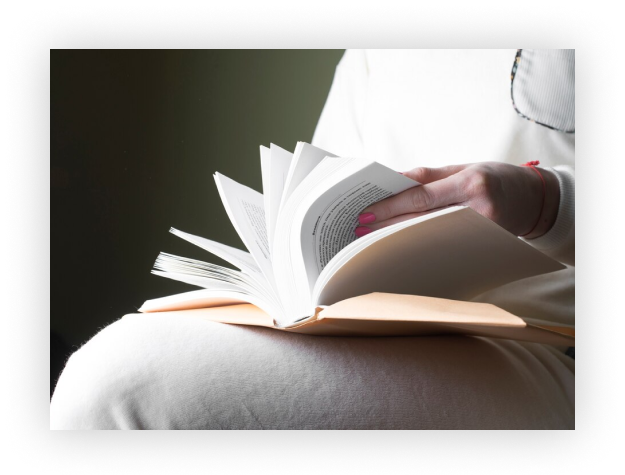
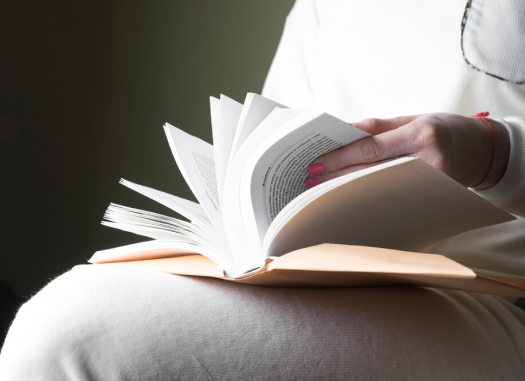
update event & image in about

diff --git a/wp-content/themes/kabarmedia/views/our-titles.php b/wp-content/themes/kabarmedia/views/our-titles.php
@@ -27,6 +27,17 @@ $getBooks = getBooks()['books'];
 .carousel-item {
     width: 100%;
 }
+.btn.main-button{
+    padding: 12px 50px;
+}
+.row{
+}
+.carousel-caption{
+    left: 10%;
+    position: absolute;
+  top: 50%;
+  transform: translateY(-50%);
+}
     @media (min-width: 768px) and (max-width: 992px){
         .buku, .buku-banda{
              padding-top:27%;
@@ -51,7 +62,6 @@ $getBooks = getBooks()['books'];
         .buku-banda{
          padding-top:21%   
         }
-		
     }
 </style>
 
@@ -179,9 +189,9 @@ $getBooks = getBooks()['books'];
                                 Ubud Writers & Readers Festival 2024
                             </h2>
                             <p class="description fw-normal mb-5 pe-md-5 text-white">
-                                From literary lunch to remember to intimate cocktail feasts
-                                with Festival headliners &#8211; there
-                                is plenty to devour in Ubud&apos;s in-places at one of our Special Events.
+                                From literary lunch to remember to intimate<br>
+                                cocktail feasts with Festival headliners &#8211; there is <br>
+                                plenty to devour in Ubud&apos;s in-places at one of our <br> Special Events.
                             </p>
                             <a href="https://www.ubudwritersfestival.com/" type="button" class="btn main-button">
                                 Learn More
@@ -210,7 +220,7 @@ $getBooks = getBooks()['books'];
             <div class="carousel-item active">
                 <div class="row align-items-center">
                     <div class="col-md-6 px-4 order-2 md-order-1">
-                        <p class="sub-title text-uppercase fw-bold mb-2">Events</p>
+                        <p class="sub-title text-uppercase fw-bold mb-2 mt-4">Events</p>
                         <h2 class="main-title mb-lg-4">
                             Indie Book Day 2024
                         </h2>
@@ -236,7 +246,7 @@ $getBooks = getBooks()['books'];
             <div class="carousel-item">
                 <div class="row align-items-center">
                     <div class="col-md-6 px-4 order-2 md-order-1">
-                        <p class="sub-title text-uppercase fw-bold mb-2">Events</p>
+                        <p class="sub-title text-uppercase fw-bold mb-2 mt-4">Events</p>
                         <h2 class="main-title mb-lg-4">
                             Meet the Author at Periplus Artasedana Sanur
                         </h2>
@@ -259,7 +269,7 @@ $getBooks = getBooks()['books'];
             <div class="carousel-item">
                 <div class="row align-items-center">
                     <div class="col-md-6 px-4 order-2 md-order-1">
-                        <p class="sub-title text-uppercase fw-bold mb-2">Events</p>
+                        <p class="sub-title text-uppercase fw-bold mb-2 mt-4">Events</p>
                         <h2 class="main-title mb-lg-4">
                             Ubud Writers & Readers Festival
                         </h2>
@@ -275,7 +285,7 @@ $getBooks = getBooks()['books'];
                         <picture>
                             <source media="(min-width:900px)" srcset="<?php echo esc_url(get_template_directory_uri()); ?>/assets/images/event-background-desktop.png">
                             <source media="(min-width:768px)" srcset="<?php echo esc_url(get_template_directory_uri()); ?>/assets/images/event-background-tablet.png">
-                            <img src="<?php echo esc_url(get_template_directory_uri()); ?>/assets/images/event-ubud.png" alt="all-book" class="w-100">
+                            <img src="<?php echo esc_url(get_template_directory_uri()); ?>/assets/images/event-ubud-mobile.png" alt="all-book" class="w-100">
                         </picture>
                     </div>
                 </div>
